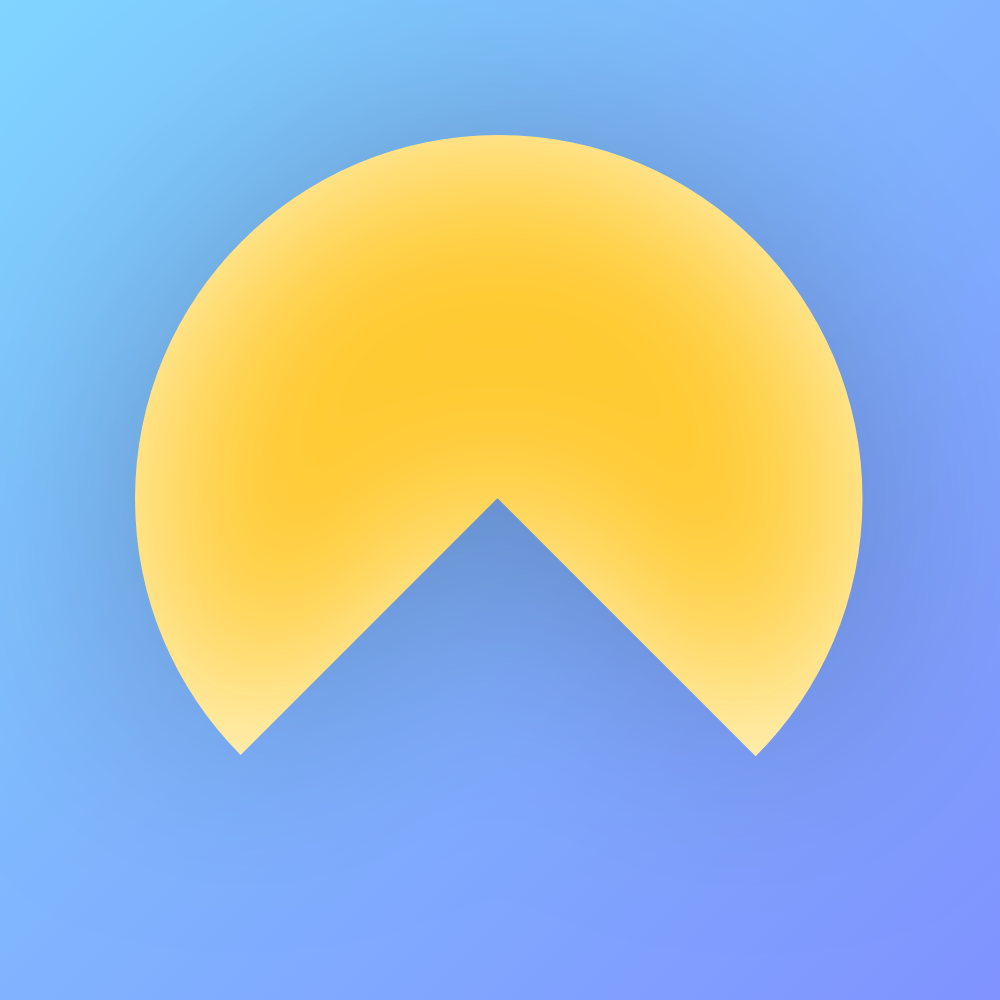
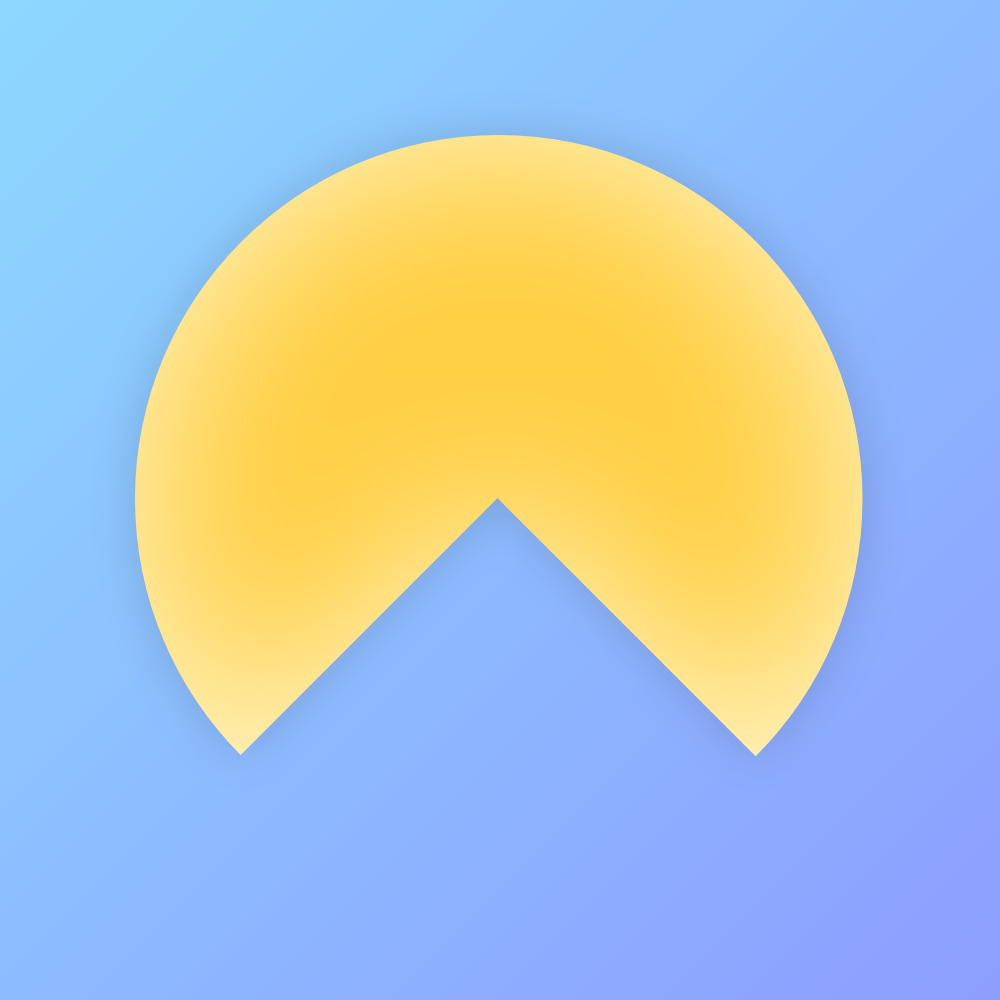
Update content

Changed region(s): [[0.372, 0.496, 0.62, 0.682]]

diff --git a/components/profile-card.tsx b/components/profile-card.tsx
@@ -10,8 +10,9 @@ import twitterVerified from "../public/twitter-verified.svg";
 import BackgroundGradient from "./background-gradient";
 import FlippableCard from "./flippable-card";
 import { useCallback, useState } from "react";
+import classNames from "classnames";
 
-export default function ProfileCard() {
+export default function ProfileCard({ className }: { className?: string }) {
   const [flipped, setFlipped] = useState(false);
 
   const toggle = useCallback(() => {
@@ -20,9 +21,9 @@ export default function ProfileCard() {
 
   return (
     <FlippableCard
-      className="relative row-span-2"
+      className={classNames("relative", className)}
       front={
-        <Card className="flex h-full flex-col items-center justify-center pb-28 pt-20 sm:py-20">
+        <Card className="flex h-full flex-col items-center justify-center bg-indigo-200/10 py-40 sm:py-20">
           <Image className="h-16 w-16 rounded-full" src={avatar} alt="Avatar" />
           <p className="relative mt-2 items-end text-xl">
             Nooc
@@ -36,23 +37,9 @@ export default function ProfileCard() {
             />
           </p>
           <p className="mt-2 opacity-60">游离于存在与虚无间的理想主义者</p>
-          <div className="mt-10 flex items-center space-x-5">
-            <a href="https://twitter.com/noobnooc">
-              <Twitter className="h-6 w-6 hover:text-[#1DA1F2]" />
-            </a>
-            <a href="https://github.com/noobnooc/noobnooc">
-              <Github className="h-6 w-6 hover:text-purple-500" />
-            </a>
-            <a href="https://www.instagram.com/noobnooc/">
-              <Instagram className="h-6 w-6 hover:text-[#E4405F]" />
-            </a>
-            <a href="mailto:nooc@nooc.ink">
-              <EnvelopeIcon className="h-7 w-7 hover:text-green-500" />
-            </a>
-          </div>
 
           <button
-            className="absolute right-5  bottom-5 rounded-full border bg-white/30 p-3 dark:border-white/30 dark:bg-black/40"
+            className="absolute right-5 bottom-5 rounded-full border border-gray-400/20 bg-white/40 p-3 dark:border-white/30 dark:bg-black/40"
             onClick={() => toggle()}
           >
             <ArrowPathRoundedSquareIcon className="h-5 w-5 opacity-60" />
@@ -60,7 +47,7 @@ export default function ProfileCard() {
         </Card>
       }
       back={
-        <Card className="flex h-full flex-col items-center justify-center">
+        <Card className="flex h-full flex-col items-center justify-center bg-violet-200/10">
           <div>
             <p>一个人。</p>
 
@@ -81,7 +68,7 @@ export default function ProfileCard() {
           </div>
 
           <button
-            className="absolute right-5 bottom-5 rounded-full border bg-white/30 p-3 dark:border-white/30 dark:bg-black/40"
+            className="absolute right-5 bottom-5 rounded-full border border-gray-400/20 bg-white/30 p-3 dark:border-white/30 dark:bg-black/40"
             onClick={() => toggle()}
           >
             <ArrowPathRoundedSquareIcon className="h-5 w-5 opacity-60" />

diff --git a/components/playing-card.tsx b/components/playing-card.tsx
@@ -58,15 +58,25 @@ const items = [
   },
 ];
 
-export default function PlayingCard() {
+export default function PlayingCard({ className }: { className?: string }) {
   const [selectedItem, setSelectedItem] = useState<
     typeof items[number] | undefined
   >();
 
   return (
-    <Card className="flex flex-col justify-between px-4">
-      <h1 className="mb-2 pl-4 text-lg">在玩什么</h1>
-      <div className="my-3 flex items-center space-x-4 pl-4">
+    <Card
+      className={classNames(
+        "flex flex-col justify-between  bg-red-100/20 px-4 hover:-translate-y-1",
+        className
+      )}
+    >
+      <h1 className="mb-2 text-red-500/60">在玩什么</h1>
+      <div className="overflow-hidden rounded-xl border border-gray-400/20 bg-white/40 p-4 dark:border-white/40 dark:bg-black/30 sm:h-24">
+        <p className="opacity-70 transition-all">
+          {selectedItem?.summary ?? <>我来人间一趟, 我要看看太阳。</>}
+        </p>
+      </div>
+      <div className="mt-3 flex items-center space-x-4 px-4">
         <AnimateSharedLayout>
           {items.map((item) => {
             const selected = selectedItem?.name === item.name;
@@ -101,11 +111,6 @@ export default function PlayingCard() {
             );
           })}
         </AnimateSharedLayout>
-      </div>
-      <div className="overflow-hidden rounded-xl border bg-white/60 p-4 dark:border-white/40 dark:bg-black/30 sm:h-24">
-        <p className="opacity-70 transition-all">
-          {selectedItem?.summary ?? <>我来人间一趟, 我要看看太阳。</>}
-        </p>
       </div>
     </Card>
   );

diff --git a/components/doing-card.tsx b/components/doing-card.tsx
@@ -4,6 +4,7 @@ import { EnvelopeIcon } from "@heroicons/react/24/solid";
 import { Github, Instagram, Twitter } from "@icons-pack/react-simple-icons";
 import kosto from "../public/kosto.png";
 import { useState } from "react";
+import classNames from "classnames";
 
 const items = [
   {
@@ -26,14 +27,19 @@ const items = [
   },
 ];
 
-export default function DoingCard() {
+export default function DoingCard({ className }: { className?: string }) {
   const [selectedItem, setSelectedItem] = useState<
     typeof items[number] | undefined
   >();
 
   return (
-    <Card className="flex flex-col justify-between px-4">
-      <h1 className="mb-2 px-4 text-lg">在做什么</h1>
+    <Card
+      className={classNames(
+        "flex flex-col justify-between bg-green-100/20 px-4 hover:-translate-y-1",
+        className
+      )}
+    >
+      <h1 className="mb-2 text-green-500/60">在做什么</h1>
       <div className="my-3 flex px-4">
         {items.map((item) => {
           const selected = selectedItem?.name === item.name;
@@ -51,7 +57,7 @@ export default function DoingCard() {
           );
         })}
       </div>
-      <div className="overflow-hidden rounded-xl border  bg-white/60 p-4 dark:border-white/40 dark:bg-black/30 sm:h-24">
+      <div className="overflow-hidden rounded-xl border border-gray-400/20  bg-white/40 p-4 dark:border-white/40 dark:bg-black/30 sm:h-24">
         <p className="opacity-70">{selectedItem?.summary ?? <>在路上</>}</p>
       </div>
     </Card>

diff --git a/pages/index.tsx b/pages/index.tsx
@@ -1,7 +1,9 @@
 import Head from "next/head";
 import Image from "next/image";
 import BackgroundGradient from "../components/background-gradient";
+import BlogCard from "../components/blog-card";
 import Card from "../components/card";
+import ContactCard from "../components/contact-card";
 import DoingCard from "../components/doing-card";
 import PlayingCard from "../components/playing-card";
 import ProfileCard from "../components/profile-card";
@@ -26,10 +28,12 @@ export default function Home() {
       <main className="flex grow flex-col justify-center">
         <section>
           <div className="w-full px-4 py-16 sm:px-6 lg:px-8">
-            <div className="mx-auto grid max-w-screen-lg grid-cols-1 gap-4 sm:grid-cols-2">
-              <ProfileCard />
-              <PlayingCard />
-              <DoingCard />
+            <div className="mx-auto grid max-w-screen-lg grid-cols-1 gap-4 sm:grid-cols-12">
+              <ProfileCard className="sm:col-span-6 sm:row-span-2 lg:col-span-5" />
+              <ContactCard className="sm:col-span-6 lg:col-span-3" />
+              <PlayingCard className="sm:col-span-6 lg:col-span-4" />
+              <DoingCard className="sm:col-span-6 lg:col-span-4" />
+              <BlogCard className="sm:col-span-6 lg:col-span-3" />
             </div>
           </div>
         </section>

diff --git a/components/contact-card.tsx b/components/contact-card.tsx
@@ -1,0 +1,34 @@
+import Card from "./card";
+import Image from "next/image";
+import { EnvelopeIcon } from "@heroicons/react/24/solid";
+import { Github, Instagram, Twitter } from "@icons-pack/react-simple-icons";
+import kosto from "../public/kosto.png";
+import { useState } from "react";
+import classNames from "classnames";
+
+export default function ContactCard({ className }: { className?: string }) {
+  return (
+    <Card
+      className={classNames(
+        "flex flex-col justify-between bg-blue-100/20 px-4 hover:-rotate-2",
+        className
+      )}
+    >
+      <h1 className="mb-2 text-blue-500/70">在哪找我</h1>
+      <div className="mt-10 flex items-center space-x-5 self-end">
+        <a href="https://twitter.com/noobnooc">
+          <Twitter className="h-6 w-6 hover:text-[#1DA1F2]" />
+        </a>
+        <a href="https://github.com/noobnooc/noobnooc">
+          <Github className="h-6 w-6 hover:text-purple-500" />
+        </a>
+        <a href="https://www.instagram.com/noobnooc/">
+          <Instagram className="h-6 w-6 hover:text-[#E4405F]" />
+        </a>
+        <a href="mailto:nooc@nooc.ink">
+          <EnvelopeIcon className="h-7 w-7 hover:text-green-500" />
+        </a>
+      </div>
+    </Card>
+  );
+}

diff --git a/components/blog-card.tsx b/components/blog-card.tsx
@@ -1,0 +1,21 @@
+import Card from "./card";
+import Image from "next/image";
+import { EnvelopeIcon } from "@heroicons/react/24/solid";
+import { Github, Instagram, Twitter } from "@icons-pack/react-simple-icons";
+import kosto from "../public/kosto.png";
+import { useState } from "react";
+import classNames from "classnames";
+
+export default function BlogCard({ className }: { className?: string }) {
+  return (
+    <Card
+      className={classNames(
+        "flex flex-col justify-between bg-orange-100/20 px-4 hover:rotate-2",
+        className
+      )}
+    >
+      <h1 className="mb-2 text-orange-500/60">博客</h1>
+      <div className="flex">施工中...</div>
+    </Card>
+  );
+}

diff --git a/components/card.tsx b/components/card.tsx
@@ -11,7 +11,7 @@ export default function Card({
   return (
     <div
       className={classNames(
-        "isolate rounded-xl border border-gray-500/20 bg-white/50 p-4 shadow-md shadow-gray-500/5 transition-all duration-300 hover:border-gray-500/30 hover:bg-white/60 hover:shadow-xl hover:shadow-gray-500/5 dark:border-gray-500/60 dark:bg-black/20 dark:shadow-none dark:hover:border-gray-500/80 dark:hover:bg-black/30 dark:hover:shadow-none sm:hover:-translate-y-1 ",
+        "isolate rounded-xl border border-gray-600/10 p-4 shadow-xl shadow-gray-400/10 transition-all duration-300 dark:shadow-black/0",
         className
       )}
     >
